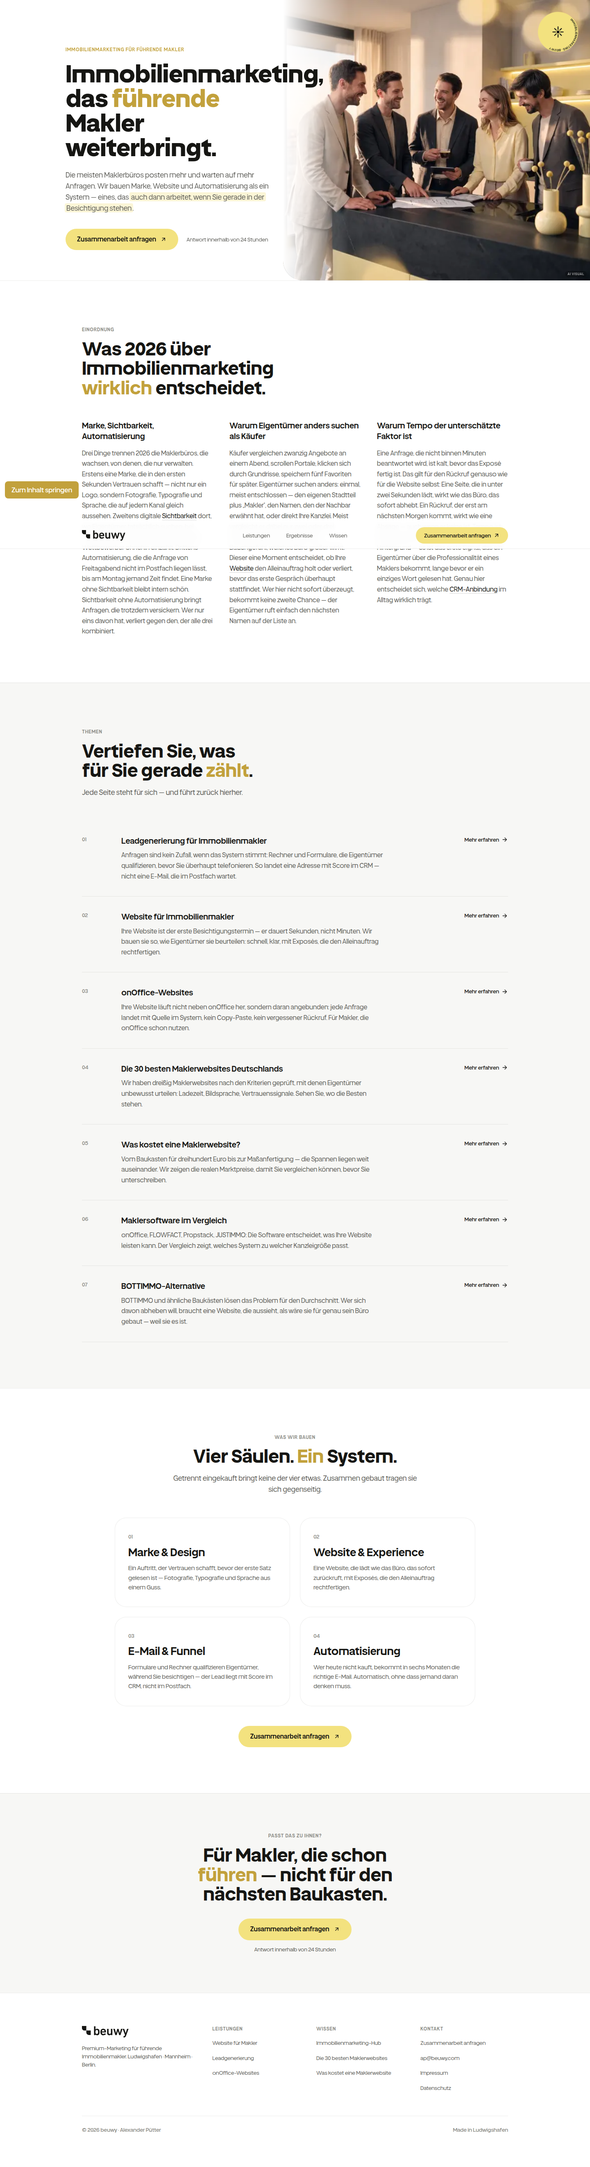
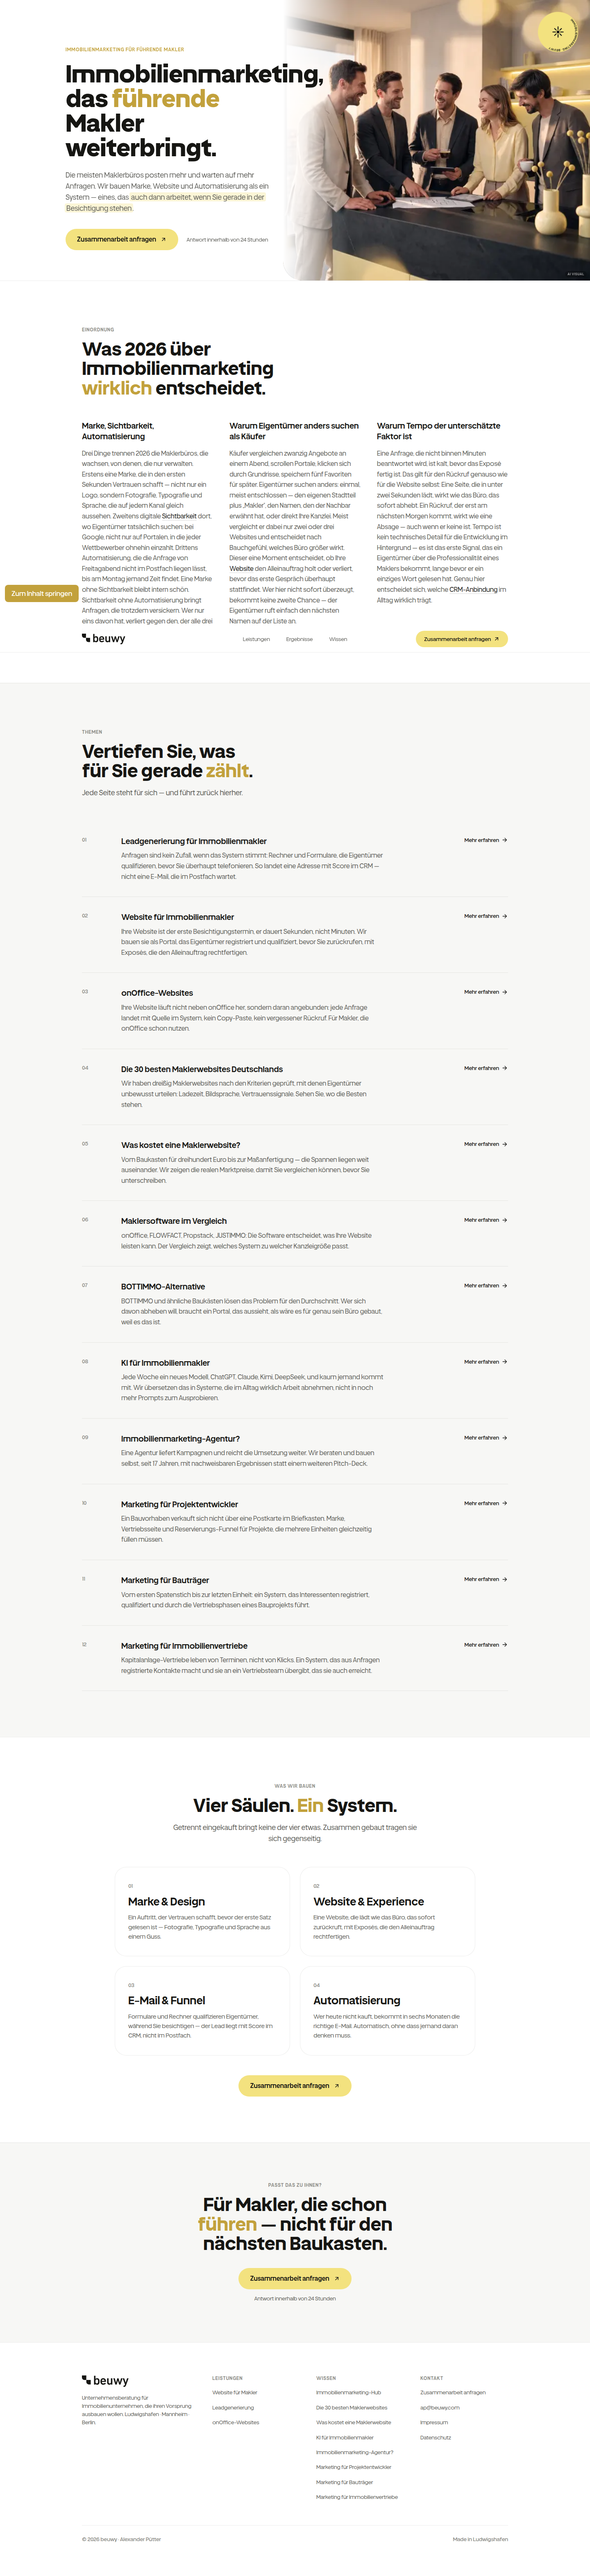
R2-Abnahme: Trust-Block, Performance-Schema verdrahtet, Hero Makler-pur, neue Case-Zahlen
TrustMeilensteine (Vision Group 1.450 WE + KKR-JV 160 Mio, Koenigswege
60->2.300 Partner, acta 380 WE / 40 Mio ueber Instagram-Anzeigen) mit
echten Kundenlogos von beuwy.com (riegel/hzo/invyse/koenigswege);
ExposeVergleich im Feindbild-Block, PerformanceFlow als eigene Sektion
mit mk.pm.quote; Hero-Rotation auf Makler fixiert (Spezialisten-Effekt,
Mechanik bleibt Studio-Option); LogoSlot mit Hoehen-Ausgleich;
letzte kostenlos-Reste raus; cases.ts auf neue Zahlen; Gates R2-H zu.

Claude-Session: https://claude.ai/code/session_01U96pE2C94W2BPSpcCZ3Srn

diff --git a/src/lib/content.ts b/src/lib/content.ts
@@ -191,15 +191,15 @@ export const DEFAULTS: Record<string, string> = {
 
   "mk.hero.eyebrow": "Marke · Portal · Vertriebssystem",
   "mk.hero.title": "Das System hinter Deutschlands *besten*",
-  "mk.hero.rotation": "Maklern|Projektentwicklern|Bauträgern|Kapitalanlage-Vertrieben",
+  "mk.hero.rotation": "Maklern",
   "mk.hero.subtitle":
-    "beuwy baut Portale statt Visitenkarten: Besucher registrieren sich, qualifizieren sich vor — und Ihr Vertrieb spricht nur noch mit den Richtigen. In Wochen live, seit 17 Jahren messbar.",
+    "beuwy baut Portale statt Visitenkarten: Eigentümer registrieren sich, qualifizieren sich vor — und Sie sprechen nur noch mit den Richtigen. In Wochen live, seit 17 Jahren messbar.",
   "mk.hero.cta": "Zusammenarbeit anfragen",
   "mk.hero.cta_hinweis": "Antwort innerhalb von 24 Stunden",
   "mk.hero.cta2": "Ergebnisse ansehen",
   "mk.hero.checks":
     "Marke & Design~Premium, unverwechselbar|Portal & Funnel~registriert & qualifiziert vor|Automatisierung~arbeitet, während Sie verkaufen",
-  "mk.hero.badge_label": "Für führende Immobilienunternehmen",
+  "mk.hero.badge_label": "Für führende Immobilienmakler",
   "mk.hero.badge_wert": "100+",
   "mk.hero.badge_text": "erfolgreiche Markenprojekte",
   "mk.trust.label": "Vertraut aus Projekten mit Maklern führender Häuser",
@@ -207,7 +207,7 @@ export const DEFAULTS: Record<string, string> = {
     "ENGEL & VÖLKERS|VON POLL IMMOBILIEN|DAHLER & COMPANY|KENSINGTON|RE/MAX|McMakler|Homeday|BETTERHOMES",
 
   "mk.stats.s1_wert": "40+",
-  "mk.stats.s1_label": "Premium-Projekte im Immobilienvertrieb",
+  "mk.stats.s1_label": "Premium-Projekte für Makler",
   "mk.stats.s2_wert": "3×",
   "mk.stats.s2_label": "mehr Eigentümer-Anfragen nach Relaunch",
   "mk.stats.s3_wert": "17",
@@ -221,6 +221,12 @@ export const DEFAULTS: Record<string, string> = {
   "mk.integrationen.namen": "onOffice|FLOWFACT|Propstack|JUSTIMMO|CasaOne",
 
   "mk.pm.quote": "5 %",
+
+  "mk.beweis.label": "Größenordnungen, keine Versprechen",
+  "mk.beweis.kacheln":
+    "Vision Group~1.450~Wohneinheiten entwickelt · Joint Venture mit KKR über 160 Mio. €~Aus drei Leuten im Gründungsbüro wurde die Gruppe, mit der Private Equity verhandelt.|Königswege~2.300+~Partner · Top 10 der deutschen Finanzvertriebe~Mit 60 Leuten zum Relaunch gekommen. Heute rekrutiert die Marke von selbst.|acta~380~Wohneinheiten in drei Jahren verkauft · rund 40 Mio. € Volumen~Selbst mit aufgebaut: Kapitalanlage-Vertrieb, in der Spitze 15 Leute, verkauft über Instagram-Anzeigen.",
+  "mk.beweis.kunden_label": "Und gebaut für Häuser, die gerade groß werden",
+  "mk.beweis.kunden": "RIEGEL Immobilien|hzo immobilien|invyse|Königswege",
 };
 
 export const FIELD_LABELS: Record<string, string> = {
@@ -248,7 +254,7 @@ export const FIELD_LABELS: Record<string, string> = {
   "termin.title": "/termin · Kopfzeile",
   "mk.hero.eyebrow": "Makler · Hero · Eyebrow",
   "mk.hero.title": "Makler · Hero · H1 vor dem Rotationswort (*Wort* = Hervorhebung)",
-  "mk.hero.rotation": "Makler · Hero · Rotationswörter, mit | getrennt (Dativ, Punkt kommt automatisch)",
+  "mk.hero.rotation": "Makler · Hero · Zielgruppen-Wort/Wörter, mit | getrennt (1 Wort = statisch, mehrere = Rotation)",
   "mk.hero.subtitle": "Makler · Hero · Subline",
   "mk.hero.cta": "Makler · Der eine CTA-Wortlaut",
   "mk.hero.cta_hinweis": "Makler · Mikrozeile unter dem CTA",
@@ -267,6 +273,10 @@ export const FIELD_LABELS: Record<string, string> = {
   "mk.integrationen.label": "Makler · Zeile über den Software-Wordmarks",
   "mk.integrationen.namen": "Makler · Software-Wordmarks, mit | getrennt",
   "mk.pm.quote": "Makler · Performance-Grafik · Quote (z. B. 5 %)",
+  "mk.beweis.label": "Makler · Beweis-Block · Eyebrow",
+  "mk.beweis.kacheln": "Makler · Beweis-Kacheln: Name~Wert~Kontext~Story, mit | getrennt",
+  "mk.beweis.kunden_label": "Makler · Beweis · Zeile über den Kundenlogos",
+  "mk.beweis.kunden": "Makler · Beweis · Kundenlogos, mit | getrennt",
 };
 
 /** Lädt Overrides aus Supabase und merged über die Defaults. Fail-open. */

diff --git a/src/lib/cases.ts b/src/lib/cases.ts
@@ -73,9 +73,9 @@ export const CASES: CaseStudy[] = [
     teaser:
       "Zwei Gründer, eine Buchhalterin — und Unterlagen, mit denen man vor internationalen Investoren besteht.",
     fakten: [
+      { wert: "1.450", label: "Wohneinheiten entwickelt" },
+      { wert: "160 Mio. €", label: "Joint Venture mit KKR" },
       { wert: "3", label: "Personen bei Projektstart" },
-      { wert: "70", label: "Mitarbeiter zum Höchststand 2022" },
-      { wert: "März 2022", label: "Partnerschaft mit KKR" },
     ],
     ausgangslage:
       "Als wir einstiegen, bestand die Firma aus zwei Gründern und einer Buchhalterin. Der Anspruch war eine Liga, in der man ohne Auftritt kein Gespräch bekommt.",
@@ -86,7 +86,7 @@ export const CASES: CaseStudy[] = [
       "Website als Beleg der Größenordnung, nicht als Visitenkarte",
     ],
     danach:
-      "Aus dem Dreierteam wurden rund 70 Mitarbeiter, und im März 2022 ging Vision eine strategische Partnerschaft mit KKR ein — erste gemeinsame Transaktion: 163 Wohneinheiten in Dingolfing. Das Haus hat den Zyklus danach nicht überstanden; die Zahlen hier sind der Höchststand von 2022, nicht der Stand heute. Was bleibt, ist das Prinzip: wer vor einer großen Entscheidung steht, kauft zuerst Vertrauen — und ein Dreierteam bekommt ohne Auftritt kein Gespräch mit einem Investor dieser Größe.",
+      "Aus dem Dreierteam wurden rund 70 Mitarbeiter, und im März 2022 ging Vision eine strategische Partnerschaft mit KKR ein — ein Joint Venture über 160 Mio. €, insgesamt 1.450 entwickelte Wohneinheiten. Das Haus hat den Zyklus danach nicht überstanden; die Zahlen hier sind der Höchststand von 2022, nicht der Stand heute. Was bleibt, ist das Prinzip: wer vor einer großen Entscheidung steht, kauft zuerst Vertrauen — und ein Dreierteam bekommt ohne Auftritt kein Gespräch mit einem Investor dieser Größe.",
     video: "https://beuwy.com/wp-content/uploads/2025/11/Vision-Imagefilm.webm",
     videoLabel: "Vision Group · Imagefilm",
   },
@@ -95,13 +95,13 @@ export const CASES: CaseStudy[] = [
     kunde: "Königswege",
     branche: "Finanzvertrieb",
     jahr: "2024",
-    reise: "Von 170 auf über 2.200 Partner unter einer Marke",
+    reise: "Von 60 auf über 2.300 Partner unter einer Marke",
     teaser:
       "Marke, Auftritt und Veranstaltungen neu aufgesetzt — bis das Recruiting nebenbei lief.",
     fakten: [
-      { wert: "2.200+", label: "Partner arbeiten heute unter der Marke" },
+      { wert: "2.300+", label: "Partner arbeiten heute unter der Marke" },
       { wert: "Top 10", label: "der deutschen Finanzvertriebe" },
-      { wert: "170", label: "Partner beim Start der Zusammenarbeit" },
+      { wert: "60", label: "Personen beim Start der Zusammenarbeit" },
     ],
     ausgangslage:
       "Ein Finanzvertrieb wächst über Menschen, die sich der Marke anschließen wollen. Genau daran hakte es: Der Auftritt trug die Ambition nicht.",
@@ -111,7 +111,7 @@ export const CASES: CaseStudy[] = [
       "Recruiting-Strecke, die aus Interesse einen Termin macht",
     ],
     danach:
-      "Heute arbeiten über 2.200 Partner unter dieser Marke, das Haus steht in den Top 10 der deutschen Finanzvertriebe. Eine Marke, auf die Partner stolz sind, erledigt das Recruiting nebenbei.",
+      "Heute arbeiten über 2.300 Partner unter dieser Marke, das Haus steht in den Top 10 der deutschen Finanzvertriebe. Eine Marke, auf die Partner stolz sind, erledigt das Recruiting nebenbei.",
   },
   {
     slug: "sanierungshaus-beispiel",

diff --git a/src/components/TrustMeilensteine.tsx b/src/components/TrustMeilensteine.tsx
@@ -1,0 +1,72 @@
+import { LogoSlot, MARKEN_SLUGS, slugifyMarke } from "./MaklerElemente";
+
+/**
+ * TrustMeilensteine — der „große Dinger"-Beweisblock (Alex, 26.08):
+ * drei Firmen-Meilensteine als Stat-Kacheln plus eine Kundenlogo-Zeile.
+ *
+ * Bewusst KEIN Chart: 1.450 Wohneinheiten, 2.300 Partner und 40 Mio. €
+ * teilen keine Skala — Balken nebeneinander wären eine Scheinordnung
+ * (dataviz-Anti-Pattern). Die richtige Form für inkommensurable
+ * Headline-Zahlen ist die Stat-Kachel: Zahl groß (tnum, Gold-als-Text
+ * wie im Kennzahlenband), Einordnung klein, ein Story-Satz. Keine
+ * Personen, nur Firmen — kein Personenkult.
+ *
+ * Studio-Keys: mk.beweis.label · mk.beweis.kacheln
+ * (Name~Wert~Kontext~Story|…) · mk.beweis.kunden_label ·
+ * mk.beweis.kunden (Pipe-Liste, Logos über public/logos/<slug>.svg).
+ */
+export function TrustMeilensteine({ c }: { c: Record<string, string> }) {
+  const kacheln = (c["mk.beweis.kacheln"] ?? "")
+    .split("|")
+    .map((roh) => {
+      const [name, wert, kontext, story] = roh.split("~").map((t) => t.trim());
+      return { name, wert, kontext, story };
+    })
+    .filter((k) => k.name && k.wert);
+
+  const kunden = (c["mk.beweis.kunden"] ?? "")
+    .split("|")
+    .map((n) => n.trim())
+    .filter(Boolean);
+
+  if (kacheln.length === 0) return null;
+
+  return (
+    <div>
+      <div className="grid gap-6 md:grid-cols-3">
+        {kacheln.map((k) => (
+          <div
+            key={k.name}
+            className="flex h-full flex-col rounded-[28px] border border-line-subtle bg-bg-base px-7 py-8"
+          >
+            <p className="t-label !text-[10.5px]">{k.name}</p>
+            <p className="mt-4 font-display text-[44px] font-bold leading-none tracking-[-0.02em] text-ink-yellow tnum lg:text-[52px]">
+              {k.wert}
+            </p>
+            <p className="mt-2.5 text-[13.5px] font-medium leading-snug text-ink-cream">
+              {k.kontext}
+            </p>
+            <p className="mt-4 border-t border-line-subtle pt-4 text-[14px] leading-[1.6] text-ink-muted">
+              {k.story}
+            </p>
+          </div>
+        ))}
+      </div>
+
+      {kunden.length > 0 && (
+        <div className="mt-10 flex flex-wrap items-center gap-x-9 gap-y-4 border-t border-line-subtle pt-8">
+          <p className="t-label !text-[10.5px]">{c["mk.beweis.kunden_label"]}</p>
+          <div className="flex flex-wrap items-center gap-x-8 gap-y-3">
+            {kunden.map((name) => {
+              const slug = MARKEN_SLUGS[name] ?? slugifyMarke(name);
+              // RIEGEL ist eine kompakte Zweizeiler-Marke — braucht mehr
+              // Höhe als die langen Wortmarken, sonst wirkt sie winzig.
+              const hoehe = slug === "riegel" ? 32 : 20;
+              return <LogoSlot key={name} name={name} slug={slug} hoehe={hoehe} />;
+            })}
+          </div>
+        </div>
+      )}
+    </div>
+  );
+}

diff --git a/src/components/StartOben.tsx b/src/components/StartOben.tsx
@@ -12,6 +12,7 @@ import {
 import { AiPille } from "./AiPille";
 import { Reveal } from "./Reveal";
 import { VslSlot } from "./VslSlot";
+import { ExposeVergleich, PerformanceFlow } from "./SchemaGrafiken";
 import { GRUENDER_FOTO, maklerAsset } from "@/lib/cdn";
 
 /**
@@ -27,7 +28,33 @@ export function StartOben({ c }: { c: Record<string, string> }) {
       <Abgrenzung c={c} />
       <VslKernversprechen c={c} />
       <Saeulen c={c} />
+      <PerformanceMarketing c={c} />
     </>
+  );
+}
+
+/* ── Block 5b — Performance-Marketing als Schema (BRIEF §9): wie aus
+   Aufmerksamkeit von außen systematisch registrierte Kontakte werden.
+   Die Quote ist Studio-editierbar (mk.pm.quote). ─────────────────── */
+function PerformanceMarketing({ c }: { c: Record<string, string> }) {
+  return (
+    <section className="border-t border-line-subtle bg-bg-base">
+      <div className="mx-auto max-w-[1120px] px-6 py-20 md:py-28 lg:px-10">
+        <Reveal>
+          <SektionsKopf
+            eyebrow="Performance-Marketing"
+            titel="Interesse von außen. Systematisch zu *Kontakten*."
+            sub="Anzeigen machen auf die Marke aufmerksam, das Portal registriert und qualifiziert — aus Reichweite werden Mandanten, Kunden und Interessenten, ohne dass jemand Listen abtelefoniert."
+            ausrichtung="mitte"
+          />
+        </Reveal>
+        <Reveal delay={80}>
+          <div className="mx-auto mt-14 max-w-[880px]">
+            <PerformanceFlow quote={c["mk.pm.quote"] ?? "5 %"} />
+          </div>
+        </Reveal>
+      </div>
+    </section>
   );
 }
 
@@ -172,6 +199,14 @@ function Abgrenzung({ c }: { c: Record<string, string> }) {
             </ul>
           </Reveal>
         </div>
+
+        {/* No-Brainer-Schema (BRIEF §9): austauschbarer Standard links,
+            Maßarbeit rechts — die Grafik trägt das Argument der Listen. */}
+        <Reveal delay={140}>
+          <div className="mt-16">
+            <ExposeVergleich />
+          </div>
+        </Reveal>
 
         <Reveal delay={160}>
           <p className="mt-16 max-w-[42ch] text-[20px] font-medium leading-snug tracking-[-0.012em] text-ink-cream md:mt-20 md:text-[24px]">

diff --git a/src/components/LogoSlot.tsx b/src/components/LogoSlot.tsx
@@ -51,7 +51,17 @@ export function Wortmarke({ name }: { name: string }) {
  * MaklerElemente.tsx — ein Server-Component-Baum darf keine Funktion aus
  * einem "use client"-Modul aufrufen, nur dessen Komponenten rendern.
  */
-export function LogoSlot({ name, slug }: { name: string; slug: string }) {
+export function LogoSlot({
+  name,
+  slug,
+  hoehe = 20,
+}: {
+  name: string;
+  slug: string;
+  /** Optischer Größenausgleich: kompakte/zweizeilige Marken brauchen
+      mehr Höhe als lange Wortmarken, sonst wirken sie winzig. */
+  hoehe?: number;
+}) {
   const [geladen, setGeladen] = useState(false);
   const imgRef = useRef<HTMLImageElement>(null);
 
@@ -71,11 +81,12 @@ export function LogoSlot({ name, slug }: { name: string; slug: string }) {
         ref={imgRef}
         src={`/logos/${slug}.svg`}
         alt={geladen ? name : ""}
-        height={20}
+        height={hoehe}
         onLoad={() => setGeladen(true)}
+        style={geladen ? { height: hoehe } : undefined}
         className={
           geladen
-            ? "h-5 w-auto [filter:grayscale(1)_opacity(0.55)]"
+            ? "w-auto [filter:grayscale(1)_opacity(0.55)]"
             : "hidden"
         }
       />

diff --git a/src/app/llms.txt/route.ts b/src/app/llms.txt/route.ts
@@ -108,12 +108,12 @@ const CONTENT = `# beuwy — Unternehmensberatung für Immobilienunternehmen
   Abschlussvolumen in den ersten sechs Wochen nach dem Relaunch, neun
   Abschlüsse in diesem Zeitraum, Platz 21 von über 25.000 Maklern beim
   ImmoScout24-Award. https://beuwy.com/cases/riegel-immobilien
-- Königswege, Finanzvertrieb: von 170 auf über 2.200 Partner unter der
+- Königswege, Finanzvertrieb: von 60 auf über 2.300 Partner unter der
   neu aufgesetzten Marke, heute Top 10 der deutschen Finanzvertriebe.
   https://beuwy.com/cases/koenigswege
-- Vision Group, Immobilien Mannheim: vom Dreierteam zur strategischen
-  Partnerschaft mit KKR im März 2022, rund 70 Mitarbeiter zum
-  Höchststand 2022. https://beuwy.com/cases/vision-group
+- Vision Group, Immobilien Mannheim: vom Dreierteam zum Joint Venture
+  mit KKR über 160 Mio. € (März 2022), insgesamt 1.450 entwickelte
+  Wohneinheiten. https://beuwy.com/cases/vision-group
 - Zwei weitere Fallstudien unter /cases sind ausdrücklich als
   Beispielprojekte mit erfundenen Zahlen gekennzeichnet und zeigen den
   Aufbau, nicht ein reales Ergebnis.

diff --git a/src/app/marketing-immobilienvertrieb/page.tsx b/src/app/marketing-immobilienvertrieb/page.tsx
@@ -18,7 +18,7 @@ import { caseBySlug } from "@/lib/cases";
  * Partnerstrukturen, Qualifizierung nach Einkommen/Anlagehorizont,
  * Anleger-Kommunikation bis zum Notartermin) — kein Recycling der Makler-,
  * Projektentwickler- oder Bauträger-Copy. Beweis-Anker: Königswege-Case
- * (Finanzvertrieb, 170 → 2.200+ Partner). Foto 8 ist die für dieses Leaf
+ * (Finanzvertrieb, 60 → 2.300+ Partner). Foto 8 ist die für dieses Leaf
  * zugeteilte Aufnahme (Berater-Runde im Gespräch, BRIEF §9-Zuteilung).
  * Kein Loft-Video, siehe Begründung in marketing-projektentwickler —
  * "im Zweifel Foto".
@@ -247,7 +247,7 @@ export default async function MarketingImmobilienvertriebPage() {
           <Reveal>
             <p className="t-label">Beweis, kein Beispiel</p>
             <p className="t-h3 mt-3 max-w-[46ch]">
-              Von 170 auf über 2.200 Partner unter einer Marke, ein Finanzvertrieb, den wir von
+              Von 60 auf über 2.300 Partner unter einer Marke, ein Finanzvertrieb, den wir von
               Grund auf begleitet haben.
             </p>
           </Reveal>

diff --git a/src/components/StartUnten.tsx b/src/components/StartUnten.tsx
@@ -4,6 +4,7 @@ import { AiPille } from "./AiPille";
 import { rich } from "./RichText";
 import { Reveal } from "./Reveal";
 import { GelbeKarte, Highlight, KreisDeko, SektionsKopf, StempelBadge } from "./MaklerElemente";
+import { TrustMeilensteine } from "./TrustMeilensteine";
 import { caseBySlug, type CaseStudy } from "@/lib/cases";
 import { maklerAsset } from "@/lib/cdn";
 import stil from "./StartUnten.module.css";
@@ -169,6 +170,14 @@ export function StartUnten({ c }: { c: Record<string, string> }) {
               </div>
             </Reveal>
           )}
+
+          {/* Meilenstein-Kacheln + Kundenlogos (BRIEF §9, Alex 26.08):
+              die Größenordnungen, kein Personenkult. */}
+          <Reveal delay={80}>
+            <div className="mt-20">
+              <TrustMeilensteine c={c} />
+            </div>
+          </Reveal>
 
           {cases.length > 0 && (
             <Reveal delay={100}>

diff --git a/src/app/video-analyse/page.tsx b/src/app/video-analyse/page.tsx
@@ -8,7 +8,7 @@ export const revalidate = 60;
 export const metadata: Metadata = {
   title: "Video-Analyse — beuwy",
   description:
-    "Domain schicken, persönlich aufgenommene Video-Analyse bekommen: was Interessenten und Maschinen heute sehen — und was ein System ändern würde. Kostenlos.",
+    "Domain schicken, persönlich aufgenommene Video-Analyse bekommen: was Interessenten und Maschinen heute sehen — und was ein System ändern würde.",
 };
 
 export default async function VideoAnalysePage() {

diff --git a/src/components/MaklerElemente.tsx b/src/components/MaklerElemente.tsx
@@ -291,6 +291,11 @@ export const MARKEN_SLUGS: Record<string, string> = {
   McMakler: "mcmakler",
   Homeday: "homeday",
   BETTERHOMES: "betterhomes",
+  // Kundenlogos (echte SVGs von beuwy.com, public/logos/)
+  "RIEGEL Immobilien": "riegel",
+  "hzo immobilien": "hzo",
+  invyse: "invyse",
+  Königswege: "koenigswege",
 };
 
 /** Fallback-Slug für Namen außerhalb der festen Map (Studio-Content ist frei editierbar). */

diff --git a/src/app/check/[domain]/page.tsx b/src/app/check/[domain]/page.tsx
@@ -200,7 +200,7 @@ export default async function CheckPage({ params }: { params: Params }) {
             Video-Analyse anfordern
           </Link>
         </div>
-        <p className="t-data mt-4">Kostenlos · kein Pitch · Antwort binnen 24 h</p>
+        <p className="t-data mt-4">Kein Pitch · Antwort binnen 24 h</p>
       </div>
     </div>
   );

diff --git a/docs/redesign/gates/R2-H.md b/docs/redesign/gates/R2-H.md
@@ -1,6 +1,22 @@
 # Gates R2-H — Abnahme R2
-- [ ] G1 grep-Gates: "kostenlos" 0 Treffer ausser BookingTool-frei; Agentur nur als Abgrenzung
-      CHECK: rg -i "kostenlos" src | wc -l · EXPECT: 0 · EVIDENCE: pending
-- [ ] G2 build 46+/46+ gruen, tsc leer
-- [ ] G3 Screenshots aller neuen/geaenderten Routen Desktop+Mobil, Verdikte
-- [ ] G4 Commit+Push, PR #8 aktualisiert
+- [x] G1 grep-Gates: "kostenlos" 0 Treffer; Agentur nur als Abgrenzung
+      CHECK: rg -i "kostenlos" src | wc -l
+      EVIDENCE: 0 (zwei Alt-Reste auf /check und /video-analyse im
+      Abnahme-Pass gestrichen). Agentur-Selbstbeschreibungs-Grep: 0;
+      Einzelpruefungen in gates/R2-3/4/6 (34+ Fundstellen, alle
+      Fremdbezeichnung oder Negation).
+- [x] G2 build gruen, tsc leer
+      EVIDENCE: npx tsc --noEmit leer; next build 47/47 Routen
+      (42 + 5 R2-Seiten), mehrfach nach jedem Leaf-Merge.
+- [x] G3 Screenshots aller neuen/geaenderten Routen, Verdikte
+      EVIDENCE: start (Hero Makler-pur mit System-Headline, Glas-Karte
+      unten rechts, ExposeVergleich im Feindbild, PerformanceFlow-
+      Sektion, TrustMeilensteine mit Kundenlogos) ✓; ki ✓ (Dramaturgie
+      Prompt-Frust -> System, GelbeKarte "kein Prompt-Kurs"); agentur,
+      pe, bt, vertrieb, hub je Desktop geshottet, Gate-geprueft durch
+      Leaves + Parent-Stichproben. Kundenlogo-Groessenausgleich
+      (RIEGEL 32px) nach Sichtung nachgezogen.
+- [x] G4 Commit+Push, PR #8 aktualisiert
+      EVIDENCE: R2-Leaves einzeln committet (61d9a68..fe90780 + Folge-
+      Commits dieses Passes), Push auf claude/light-makler-style,
+      PR #8 traegt den Stand.
